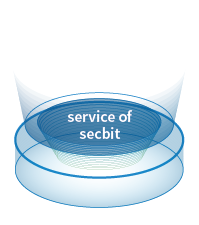
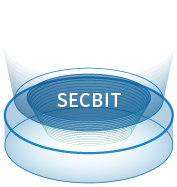
4/27

Changed region(s): [[0.0, 0.3209, 0.9887, 0.9893]]

diff --git a/index.html b/index.html
@@ -2,12 +2,14 @@
 <html lang="en">
 <head>
     <meta charset="UTF-8">
-    <title>secbit</title>
+    <title>
+        SECBIT
+    </title>
     <link rel="stylesheet" href="css/base.css" type="text/css">
     <link rel="stylesheet" href="css/index.css" type="text/css">
     <link rel="stylesheet" href="css/animate.css" type="text/css">
     <link rel="stylesheet" href="css/iconfont.css" type="text/css">
-    <link rel="icon" href="http://oxhbygzr8.bkt.clouddn.com/favicon.ico" type="image/x-icon">
+    <link rel="icon" href="images/secbit_m.ico" type="image/x-icon">
 </head>
 <body>
 <header>
@@ -48,18 +50,18 @@
 <div class="main_head">
 
     <div class="bg2_container">
-        <img id="ball_nebula" src="images/ball_nebula.png" alt="ball_nebula">
+        <img id="ball_nebula" src="images/ball_nebula2.png" alt="ball_nebula">
     </div>
 
     <div class="main_head_container">
         <div id="main_head" class="head_content">
             <h4>
-                Axiom proof_irrelevance : forall (P:Prop) (p1 p2:P), p1 = p2.
+                Axiom Principle_of_Explosion : forall P Q:Prop, P ^ ~ P -> Q.
             </h4>
             <h4>
                 From Contradiction, Anything Follows.
             </h4>
-            <img src="images/big_logo.png" alt="secbit">
+            <img src="images/logo_b.png" alt="secbit">
             <h5>
                 FORMALIZING A SECURE BIT WORLD
             </h5>
@@ -132,8 +134,7 @@
                     FURTHER VERIFICATION WITH FORMAL SPECIFICATION
                 </h4>
                 <h5>
-                    All instances of smart contract theft or loss – in fact, the very definition of smart contract theft or loss, is fundamentally about differences between implementation and intent.
-                </h5>
+                    This service extends our first level of offering with a customized process to formalize the requirement and logic of a contract with our innovative formal specification language. The process not only provides a rigorous examination of the contract to reveal deep logical defects, but also helps to guide our tools to conduct more accurate verification, resulting in a higher-level of assurance in the findings provided in the auditing report.                </h5>
                 <hr color="#183041">
                 <h3>
                     All instances of smart contract theft or loss – in fact, the very definition of smart contract theft or loss, is fundamentally about differences between implementation and intent.
@@ -185,7 +186,8 @@
     </div>
     <footer class="copyright">
         <h1>
-            Copyright 2018 SECBIT. All Rights Reserved.
+            Copyright ©
+            2018 SECBIT. All Rights Reserved.
         </h1>
     </footer>
 </div>

diff --git a/css/index.css b/css/index.css
@@ -3,7 +3,7 @@ header{
 
 }
 body{
-    /*background-color: #000;*/
+    background-color: #101216;
 }
 @font-face {
     font-family: 'source_sans_pro';
@@ -48,6 +48,8 @@ body{
 }
 .head_container_right a:hover{
     color: #4d78a2;
+    /*font-size: 20px;*/
+
 }
 i:hover{
     color: #4d78a2;
@@ -58,7 +60,7 @@ i:hover{
 }
 
 .main_head{
-    background: url(../images/bg1.jpg) center  no-repeat;
+    /*background: #101216;*/
     overflow: hidden;
     min-width: 1180px;
     /*text-align: center;*/
@@ -81,7 +83,7 @@ i:hover{
     /*width: 1201px;*/
     z-index: 1;
     /*left: -86px;-13px*/
-    left: -126px;
+    left: -372px;
     top: 23px;
 }
 .bg_content{
@@ -103,7 +105,7 @@ i:hover{
 }
 .head_content img{
     /*width: 200px;*/
-    margin: 48px 0 71px 0;;
+    margin: 23px 0 38px 0;
 }
 .head_content h4{
     font-size: 26px;
@@ -133,7 +135,7 @@ i:hover{
 }
 .main_content3{
     background-color: rgba(24,48,65,0.15);
-    height: 567px;
+    height: 643px;
 
 }
 .main_content4{
@@ -186,8 +188,8 @@ i:hover{
     position: absolute;
 }
 .content1_right img:nth-child(2){
-    top: 78px;
-    left: 100px;
+    top: 88px;
+    left: 138px;
     position: absolute;
 }
 .img_bg img:nth-child(1){
@@ -294,7 +296,7 @@ i:hover{
     width: 519px;
     height: 373px;
     /*overflow: hidden;*/
-    margin: 74px 0 0 0;
+    margin: 130px 0 0 0;
     position: relative;
     padding: 12px 0 12px 36px;
 }
@@ -306,7 +308,7 @@ i:hover{
 
 /*}*/
 .content3_right{
-    width: 566px;
+    width: 607px;
     padding: 30px 20px 0 30px;
     overflow: visible;
 }
@@ -390,7 +392,7 @@ i:hover{
 .main_tail_container{
     margin: 0 auto;
     padding: 95px 0;
-    width:691px;
+    width:867px;
 
 }
 .main_tail_container h1{
@@ -407,8 +409,8 @@ i:hover{
 
 }
 .tail_img_box img{
-    width: 93px;
-    height: 93px;
+    width: 117px;
+    height: 117px;
 
 }
 .copyright{

diff --git a/js/animate1.js b/js/animate1.js
@@ -24,7 +24,7 @@ window.onscroll = function() {
 
                 var alpha = 1 - scrollY / 400;
                 var width_reduce = scrollY / 4 * 3;
-                var height_reduce = width_reduce / 2;
+                var height_reduce = width_reduce / 19*8;
                 var refer_reduce = height_reduce * 5 / 7;//相对点减少度
                 // console.log('h12:'+scrollY);
                 // head animate :506为不动点，1440*717高度
@@ -33,9 +33,9 @@ window.onscroll = function() {
                 }
                 $("#main_head").fadeTo(30, alpha);
                 $("#ball_nebula").animate({
-                    left: -126 + width_reduce / 2 + 'px',
+                    left: -372 + width_reduce / 2 + 'px',
                     top: 23 + refer_reduce + 'px',
-                    width: (1440 - width_reduce) + 'px'
+                    width: (1920 - width_reduce) + 'px'
                 }, 5);
 
         }

diff --git a/css/base.css b/css/base.css
@@ -9,7 +9,10 @@
 }
 
 html, a, body, ul, li, ol, dl, dd, dt, p, h1, h2, h3, h4, h5, h6, form, fieldset, legend, img {
-    margin:0; padding:0; font-family: 'source_sans_pro'
+    margin:0; padding:0; font-family: 'source_sans_pro';
+    -moz-user-select: none;
+    -khtml-user-select: none;
+    user-select: none;
 }
 
 
